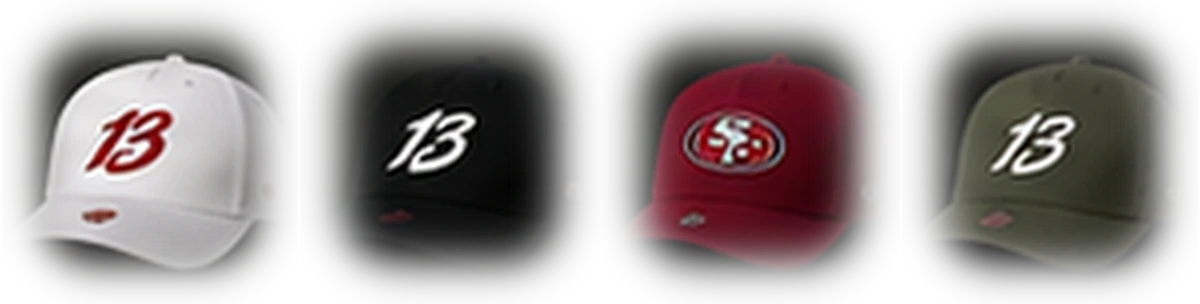
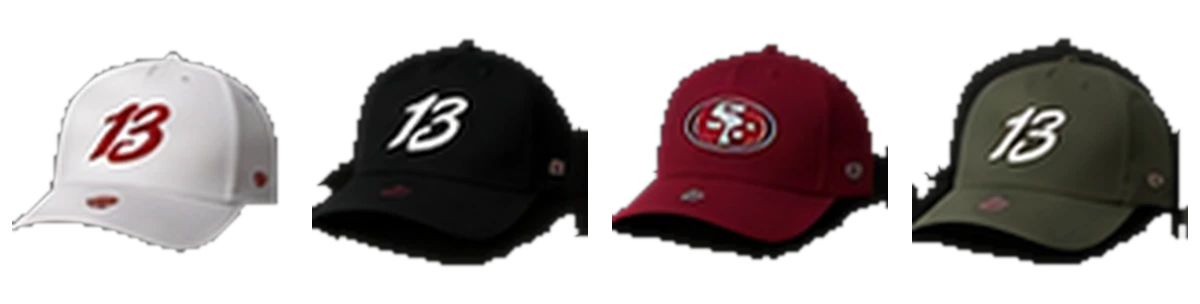
Cut the Chasing Birdies cap thumbnails out of their dark tiles
(cherry picked from commit 9aef79b52202e26a4243d61e5ae293511de1e8e5)

diff --git a/work/chasing-birdies.html b/work/chasing-birdies.html
@@ -244,7 +244,7 @@
       <img class="cb-character-look" data-look="black-glove" src="/images/birdies-purdy-black-signature-glove.png" alt="Brock Purdy in a black 49ers polo with a white 13 golf glove" width="1024" height="1536" loading="lazy">
     </div>
     <div class="cb-wardrobe"><p class="cb-select-label">MAKE IT YOURS</p><h3>From game day<br>to the green.</h3><p class="cb-wardrobe-copy">Same player. A different kind of drive.</p>
-<div class="cb-catalog-group"><h4>Golf looks</h4><ul class="cb-look-row"><li data-choice="ivory"><svg class="cb-wardrobe-thumb" viewBox="0 0 314 315" aria-hidden="true"><svg width="314" height="315" viewBox="0 0 314 315"><image href="/images/birdies-wardrobe-v1.png" width="1254" height="1254"/></svg></svg><span class="cb-item-name">Brock 13<small>Ivory polo</small></span><span class="cb-choice-check" aria-hidden="true">✓</span></li><li data-choice="black"><svg class="cb-wardrobe-thumb" viewBox="0 0 313 315" aria-hidden="true"><svg width="313" height="315" viewBox="314 0 313 315"><image href="/images/birdies-wardrobe-v1.png" width="1254" height="1254"/></svg></svg><span class="cb-item-name">49ers · lululemon<small>Black polo</small></span><span class="cb-choice-check" aria-hidden="true">✓</span></li><li data-choice="sage"><svg class="cb-wardrobe-thumb" viewBox="0 0 314 315" aria-hidden="true"><svg width="314" height="315" viewBox="627 0 314 315"><image href="/images/birdies-wardrobe-v1.png" width="1254" height="1254"/></svg></svg><span class="cb-item-name">Brock 13<small>Sage polo</small></span><span class="cb-choice-check" aria-hidden="true">✓</span></li><li data-choice="zip"><svg class="cb-wardrobe-thumb" viewBox="0 0 313 315" aria-hidden="true"><svg width="313" height="315" viewBox="941 0 313 315"><image href="/images/birdies-wardrobe-v1.png" width="1254" height="1254"/></svg></svg><span class="cb-item-name">Brock 13<small>Quarter zip</small></span><span class="cb-choice-check" aria-hidden="true">✓</span></li></ul></div><div class="cb-catalog-group"><h4>Game day looks</h4><ul class="cb-look-row"><li data-choice="scarlet"><svg class="cb-wardrobe-thumb" viewBox="0 0 314 312" aria-hidden="true"><svg width="314" height="312" viewBox="0 315 314 312"><image href="/images/birdies-wardrobe-armless-jerseys.png" width="1254" height="1254"/></svg></svg><span class="cb-item-name">Scarlet<small>Number 13</small></span><span class="cb-choice-check" aria-hidden="true">✓</span></li><li data-choice="white"><svg class="cb-wardrobe-thumb" viewBox="0 0 313 312" aria-hidden="true"><svg width="313" height="312" viewBox="314 315 313 312"><image href="/images/birdies-wardrobe-armless-jerseys.png" width="1254" height="1254"/></svg></svg><span class="cb-item-name">White<small>Number 13</small></span><span class="cb-choice-check" aria-hidden="true">✓</span></li><li data-choice="alternate"><svg class="cb-wardrobe-thumb" viewBox="0 0 314 312" aria-hidden="true"><svg width="314" height="312" viewBox="627 315 314 312"><image href="/images/birdies-wardrobe-armless-jerseys.png" width="1254" height="1254"/></svg></svg><span class="cb-item-name">Alternate<small>Number 13</small></span><span class="cb-choice-check" aria-hidden="true">✓</span></li><li data-choice="helmet"><svg class="cb-wardrobe-thumb" viewBox="0 0 313 312" aria-hidden="true"><svg width="313" height="312" viewBox="941 315 313 312"><image href="/images/birdies-wardrobe-v1.png" width="1254" height="1254"/></svg></svg><span class="cb-item-name">49ers<small>Gold helmet</small></span><span class="cb-choice-check" aria-hidden="true">✓</span></li></ul></div><div class="cb-catalog-group"><h4>Accessories</h4><ul class="cb-look-row cb-accessory-row"><li data-choice="ivory-cap"><svg class="cb-wardrobe-thumb" viewBox="0 0 300 304" aria-hidden="true"><svg width="300" height="304" viewBox="0 0 300 304"><image href="/images/birdies-caps-13.webp" width="1200" height="304"/></svg></svg><span class="cb-item-name">White<small>13 cap</small></span><span class="cb-choice-check" aria-hidden="true">✓</span></li><li data-choice="black-cap"><svg class="cb-wardrobe-thumb" viewBox="0 0 300 304" aria-hidden="true"><svg width="300" height="304" viewBox="300 0 300 304"><image href="/images/birdies-caps-13.webp" width="1200" height="304"/></svg></svg><span class="cb-item-name">Black<small>13 cap</small></span><span class="cb-choice-check" aria-hidden="true">✓</span></li><li data-choice="red-cap"><svg class="cb-wardrobe-thumb" viewBox="0 0 300 304" aria-hidden="true"><svg width="300" height="304" viewBox="600 0 300 304"><image href="/images/birdies-caps-13.webp" width="1200" height="304"/></svg></svg><span class="cb-item-name">Scarlet<small>49ers cap</small></span><span class="cb-choice-check" aria-hidden="true">✓</span></li><li data-choice="navy-cap"><svg class="cb-wardrobe-thumb" viewBox="0 0 300 304" aria-hidden="true"><svg width="300" height="304" viewBox="900 0 300 304"><image href="/images/birdies-caps-13.webp" width="1200" height="304"/></svg></svg><span class="cb-item-name">Olive<small>13 cap</small></span><span class="cb-choice-check" aria-hidden="true">✓</span></li><li data-choice="glove"><svg class="cb-wardrobe-thumb" viewBox="0 0 115 180" aria-hidden="true"><svg width="115" height="180" viewBox="720 735 115 180"><image href="/images/birdies-purdy-black-signature-glove.png" width="1024" height="1536"/></svg></svg><span class="cb-item-name">Brock 13<small>White glove</small></span><span class="cb-choice-check" aria-hidden="true">✓</span></li><li data-choice="glasses"><svg class="cb-wardrobe-thumb" viewBox="0 0 313 345" aria-hidden="true"><svg width="313" height="345" viewBox="314 909 313 345"><image href="/images/birdies-wardrobe-v1.png" width="1254" height="1254"/></svg></svg><span class="cb-item-name">Sunglasses<small>Tortoiseshell</small></span><span class="cb-choice-check" aria-hidden="true">✓</span></li></ul></div><p class="cb-outfit-status">Brock Purdy · Game-day wear</p><a class="cb-ui-play cb-choose-course" href="#birdies-course">Choose your course <span aria-hidden="true">›</span></a>
+<div class="cb-catalog-group"><h4>Golf looks</h4><ul class="cb-look-row"><li data-choice="ivory"><svg class="cb-wardrobe-thumb" viewBox="0 0 314 315" aria-hidden="true"><svg width="314" height="315" viewBox="0 0 314 315"><image href="/images/birdies-wardrobe-v1.png" width="1254" height="1254"/></svg></svg><span class="cb-item-name">Brock 13<small>Ivory polo</small></span><span class="cb-choice-check" aria-hidden="true">✓</span></li><li data-choice="black"><svg class="cb-wardrobe-thumb" viewBox="0 0 313 315" aria-hidden="true"><svg width="313" height="315" viewBox="314 0 313 315"><image href="/images/birdies-wardrobe-v1.png" width="1254" height="1254"/></svg></svg><span class="cb-item-name">49ers · lululemon<small>Black polo</small></span><span class="cb-choice-check" aria-hidden="true">✓</span></li><li data-choice="sage"><svg class="cb-wardrobe-thumb" viewBox="0 0 314 315" aria-hidden="true"><svg width="314" height="315" viewBox="627 0 314 315"><image href="/images/birdies-wardrobe-v1.png" width="1254" height="1254"/></svg></svg><span class="cb-item-name">Brock 13<small>Sage polo</small></span><span class="cb-choice-check" aria-hidden="true">✓</span></li><li data-choice="zip"><svg class="cb-wardrobe-thumb" viewBox="0 0 313 315" aria-hidden="true"><svg width="313" height="315" viewBox="941 0 313 315"><image href="/images/birdies-wardrobe-v1.png" width="1254" height="1254"/></svg></svg><span class="cb-item-name">Brock 13<small>Quarter zip</small></span><span class="cb-choice-check" aria-hidden="true">✓</span></li></ul></div><div class="cb-catalog-group"><h4>Game day looks</h4><ul class="cb-look-row"><li data-choice="scarlet"><svg class="cb-wardrobe-thumb" viewBox="0 0 314 312" aria-hidden="true"><svg width="314" height="312" viewBox="0 315 314 312"><image href="/images/birdies-wardrobe-armless-jerseys.png" width="1254" height="1254"/></svg></svg><span class="cb-item-name">Scarlet<small>Number 13</small></span><span class="cb-choice-check" aria-hidden="true">✓</span></li><li data-choice="white"><svg class="cb-wardrobe-thumb" viewBox="0 0 313 312" aria-hidden="true"><svg width="313" height="312" viewBox="314 315 313 312"><image href="/images/birdies-wardrobe-armless-jerseys.png" width="1254" height="1254"/></svg></svg><span class="cb-item-name">White<small>Number 13</small></span><span class="cb-choice-check" aria-hidden="true">✓</span></li><li data-choice="alternate"><svg class="cb-wardrobe-thumb" viewBox="0 0 314 312" aria-hidden="true"><svg width="314" height="312" viewBox="627 315 314 312"><image href="/images/birdies-wardrobe-armless-jerseys.png" width="1254" height="1254"/></svg></svg><span class="cb-item-name">Alternate<small>Number 13</small></span><span class="cb-choice-check" aria-hidden="true">✓</span></li><li data-choice="helmet"><svg class="cb-wardrobe-thumb" viewBox="0 0 313 312" aria-hidden="true"><svg width="313" height="312" viewBox="941 315 313 312"><image href="/images/birdies-wardrobe-v1.png" width="1254" height="1254"/></svg></svg><span class="cb-item-name">49ers<small>Gold helmet</small></span><span class="cb-choice-check" aria-hidden="true">✓</span></li></ul></div><div class="cb-catalog-group"><h4>Accessories</h4><ul class="cb-look-row cb-accessory-row"><li data-choice="ivory-cap"><svg class="cb-wardrobe-thumb" viewBox="0 0 300 304" aria-hidden="true"><svg width="300" height="304" viewBox="0 0 300 304"><image href="/images/birdies-caps-13.webp?v=2" width="1200" height="304"/></svg></svg><span class="cb-item-name">White<small>13 cap</small></span><span class="cb-choice-check" aria-hidden="true">✓</span></li><li data-choice="black-cap"><svg class="cb-wardrobe-thumb" viewBox="0 0 300 304" aria-hidden="true"><svg width="300" height="304" viewBox="300 0 300 304"><image href="/images/birdies-caps-13.webp?v=2" width="1200" height="304"/></svg></svg><span class="cb-item-name">Black<small>13 cap</small></span><span class="cb-choice-check" aria-hidden="true">✓</span></li><li data-choice="red-cap"><svg class="cb-wardrobe-thumb" viewBox="0 0 300 304" aria-hidden="true"><svg width="300" height="304" viewBox="600 0 300 304"><image href="/images/birdies-caps-13.webp?v=2" width="1200" height="304"/></svg></svg><span class="cb-item-name">Scarlet<small>49ers cap</small></span><span class="cb-choice-check" aria-hidden="true">✓</span></li><li data-choice="navy-cap"><svg class="cb-wardrobe-thumb" viewBox="0 0 300 304" aria-hidden="true"><svg width="300" height="304" viewBox="900 0 300 304"><image href="/images/birdies-caps-13.webp?v=2" width="1200" height="304"/></svg></svg><span class="cb-item-name">Olive<small>13 cap</small></span><span class="cb-choice-check" aria-hidden="true">✓</span></li><li data-choice="glove"><svg class="cb-wardrobe-thumb" viewBox="0 0 115 180" aria-hidden="true"><svg width="115" height="180" viewBox="720 735 115 180"><image href="/images/birdies-purdy-black-signature-glove.png" width="1024" height="1536"/></svg></svg><span class="cb-item-name">Brock 13<small>White glove</small></span><span class="cb-choice-check" aria-hidden="true">✓</span></li><li data-choice="glasses"><svg class="cb-wardrobe-thumb" viewBox="0 0 313 345" aria-hidden="true"><svg width="313" height="345" viewBox="314 909 313 345"><image href="/images/birdies-wardrobe-v1.png" width="1254" height="1254"/></svg></svg><span class="cb-item-name">Sunglasses<small>Tortoiseshell</small></span><span class="cb-choice-check" aria-hidden="true">✓</span></li></ul></div><p class="cb-outfit-status">Brock Purdy · Game-day wear</p><a class="cb-ui-play cb-choose-course" href="#birdies-course">Choose your course <span aria-hidden="true">›</span></a>
     </div>
   </div>
   </div>
